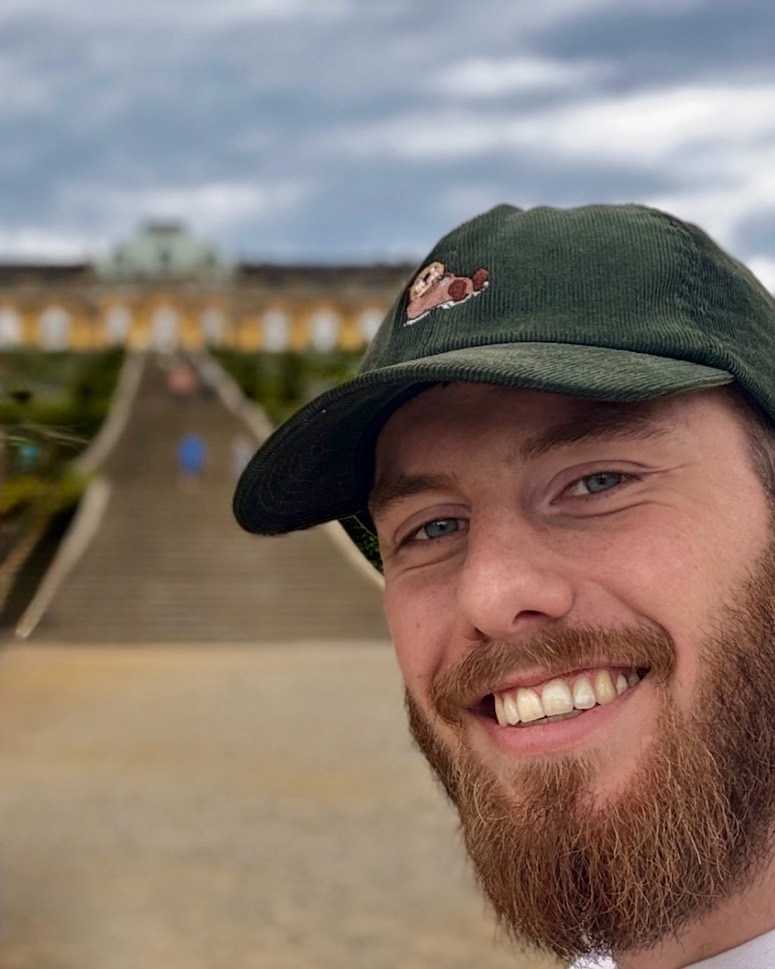
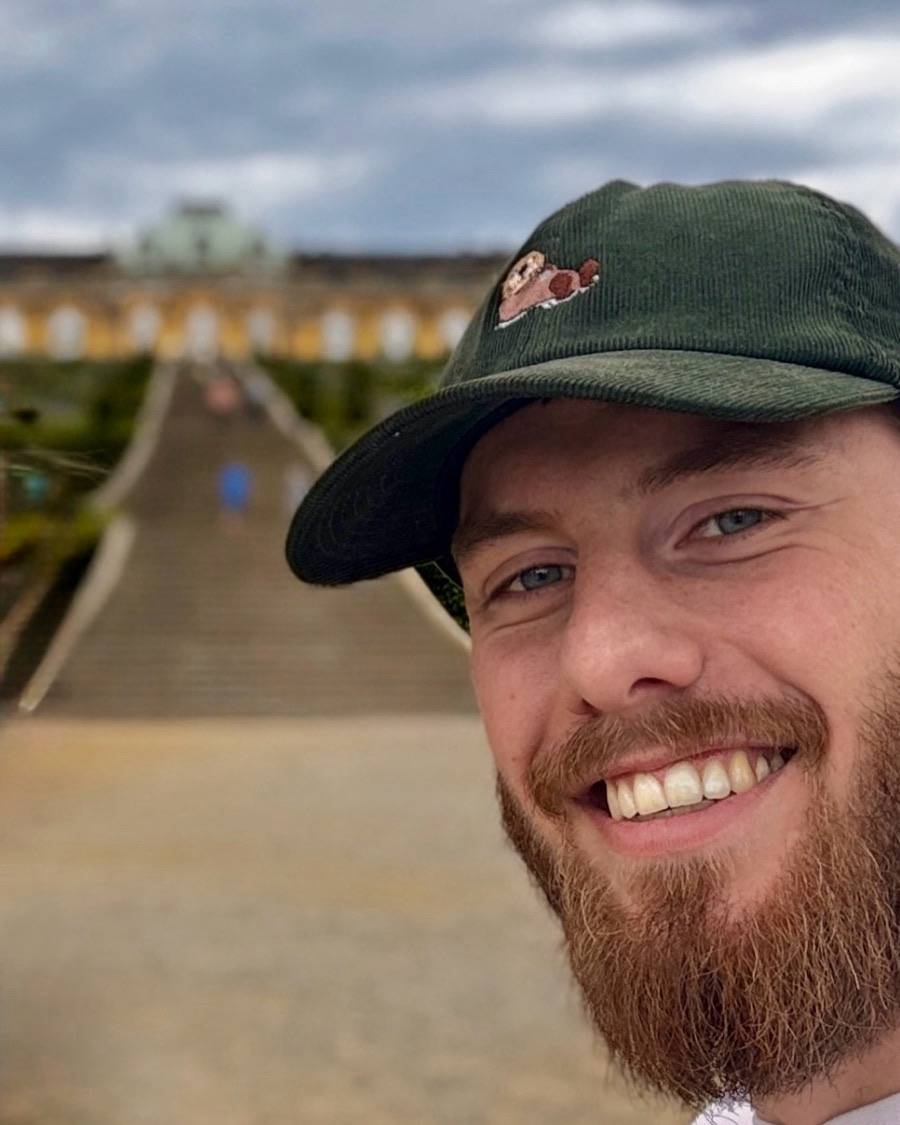
Portrait: weiterer Crop (mehr Umgebung, Gesicht mit Luft) + Hover-Interactions (Bild-Zoom, Karten-Lift, Nav-Underline, Preis-/Glyphen-Akzente)

diff --git a/projekte/marvin-web/styles.css b/projekte/marvin-web/styles.css
@@ -326,6 +326,29 @@ footer{background:var(--ink);color:var(--paper);padding:80px 0 40px;position:rel
 .foot-row a{color:var(--dark-soft);text-decoration:none;margin-left:22px;display:inline-block;padding:13px 0}
 .foot-row a:hover{color:var(--paper)}
 
+/* Hover-Interactions (dezent, zur Werkstatt-Sprache passend) */
+.duo{cursor:default}
+.duo img{transition:transform .6s cubic-bezier(.22,1,.36,1)}
+.duo:hover img{transform:scale(1.045)}
+.docket{transition:box-shadow .25s ease,transform .25s ease}
+.docket:hover{transform:translate(-3px,-3px);box-shadow:12px 12px 0 var(--paper-deep)}
+.case,.stack,.guarantee-band{transition:transform .25s ease,box-shadow .25s ease}
+.case:hover{transform:translate(-3px,-3px);box-shadow:8px 8px 0 var(--paper-deep)}
+.value .num{transition:color .25s ease}
+.value:hover .num{color:var(--signal)}
+.pkg .price{transition:color .25s ease}
+.pkg:hover .price{color:var(--signal-deep)}
+.pkg.featured:hover .price{color:var(--signal-tint)}
+.artefakt{transition:border-color .25s ease}
+.artefakt:hover{border-color:var(--ink)}
+summary{transition:color .2s ease}
+summary:hover{color:var(--signal-deep)}
+.nav-links a:not(.active),.foot-row a{
+  background:linear-gradient(var(--signal-deep),var(--signal-deep)) left 100%/0 2px no-repeat;
+  transition:background-size .25s ease,color .15s ease;
+}
+.nav-links a:not(.active):hover,.foot-row a:hover{background-size:100% 2px}
+
 /* Micro-Animations */
 @keyframes drawRule{from{clip-path:inset(0 100% 0 0)}to{clip-path:inset(0 0 0 0)}}
 .hero .rule,.page-head .rule{animation:drawRule .9s .25s cubic-bezier(.77,0,.18,1) both}